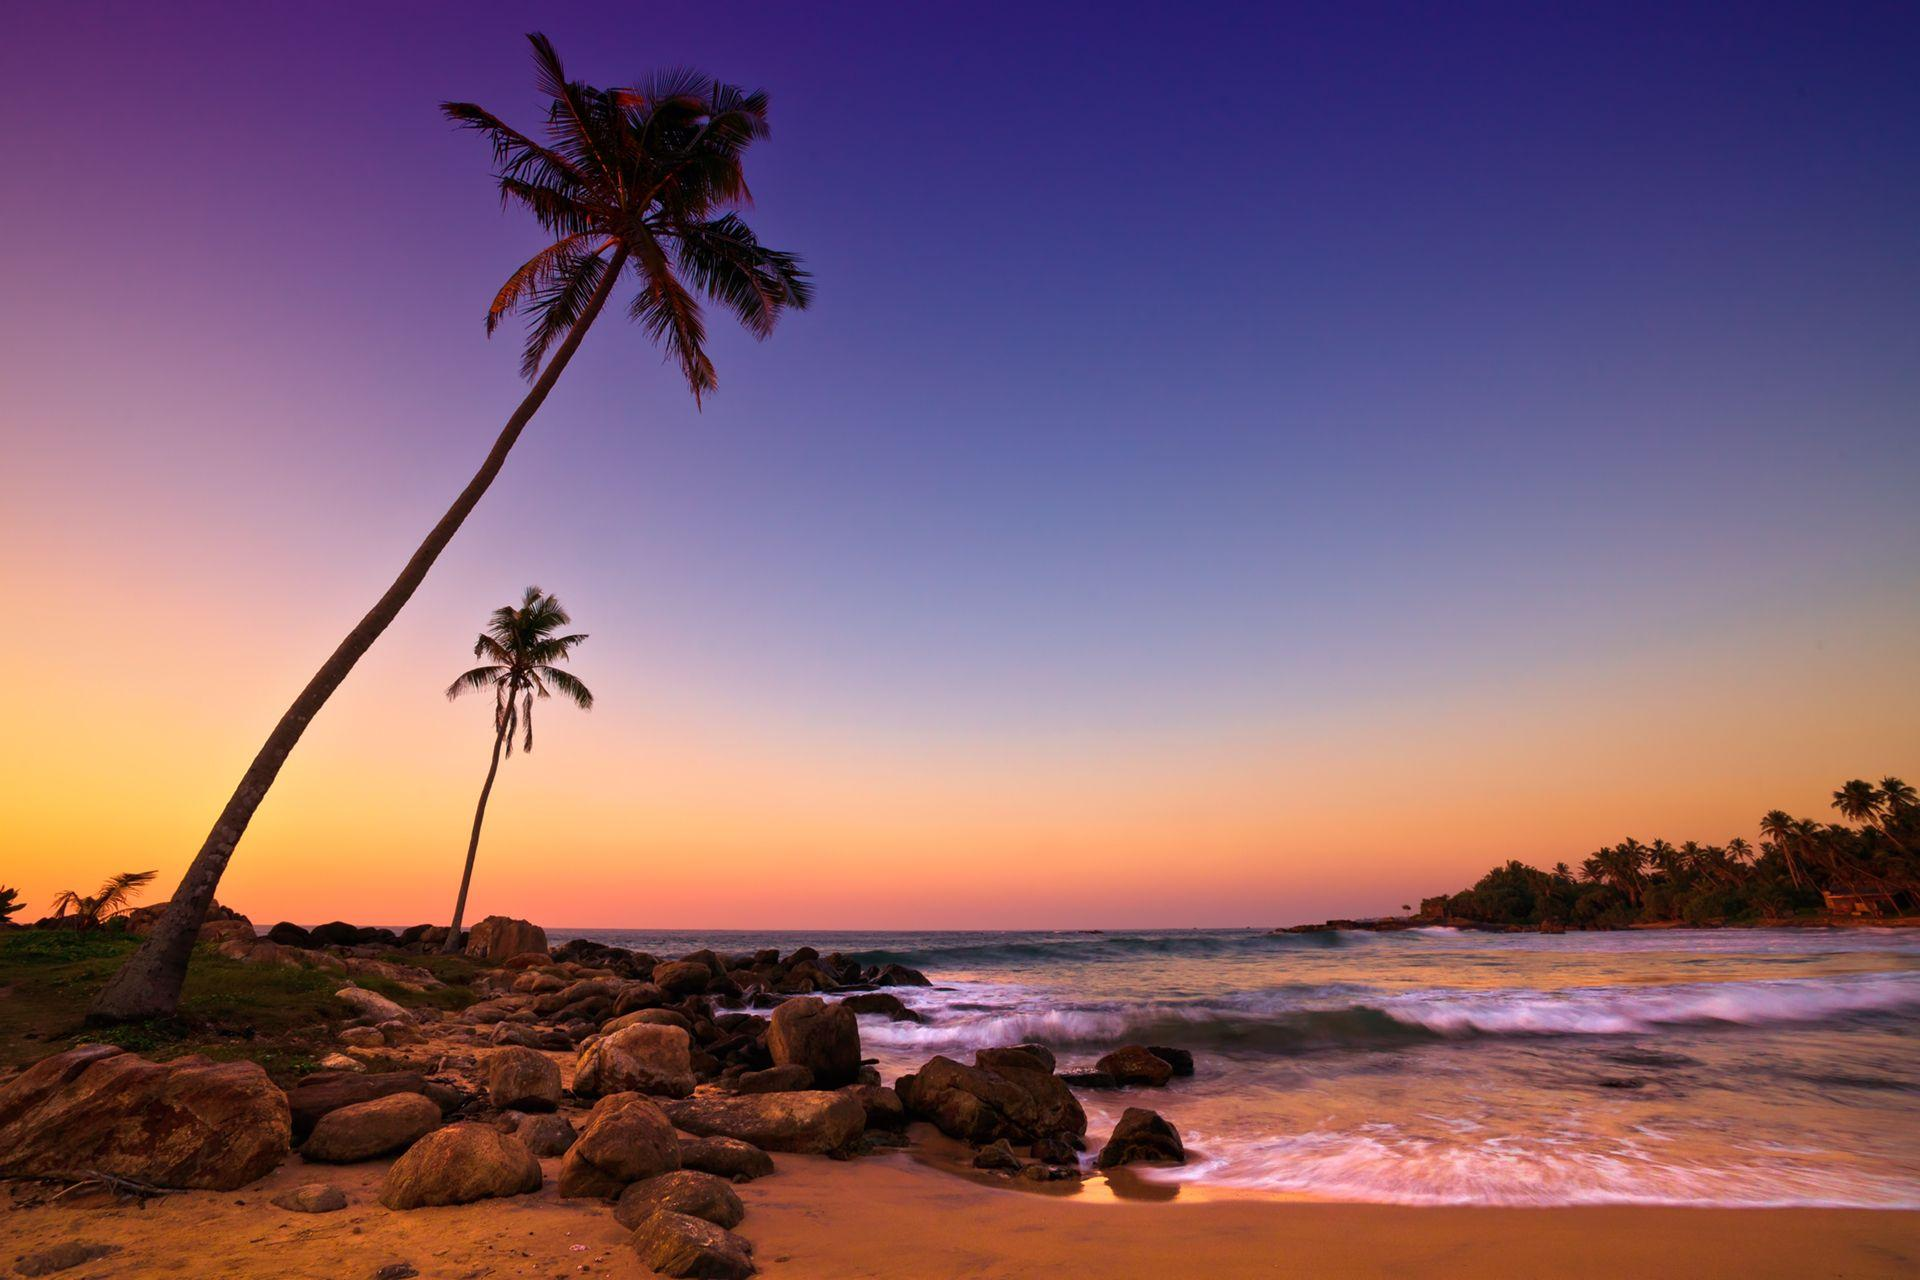
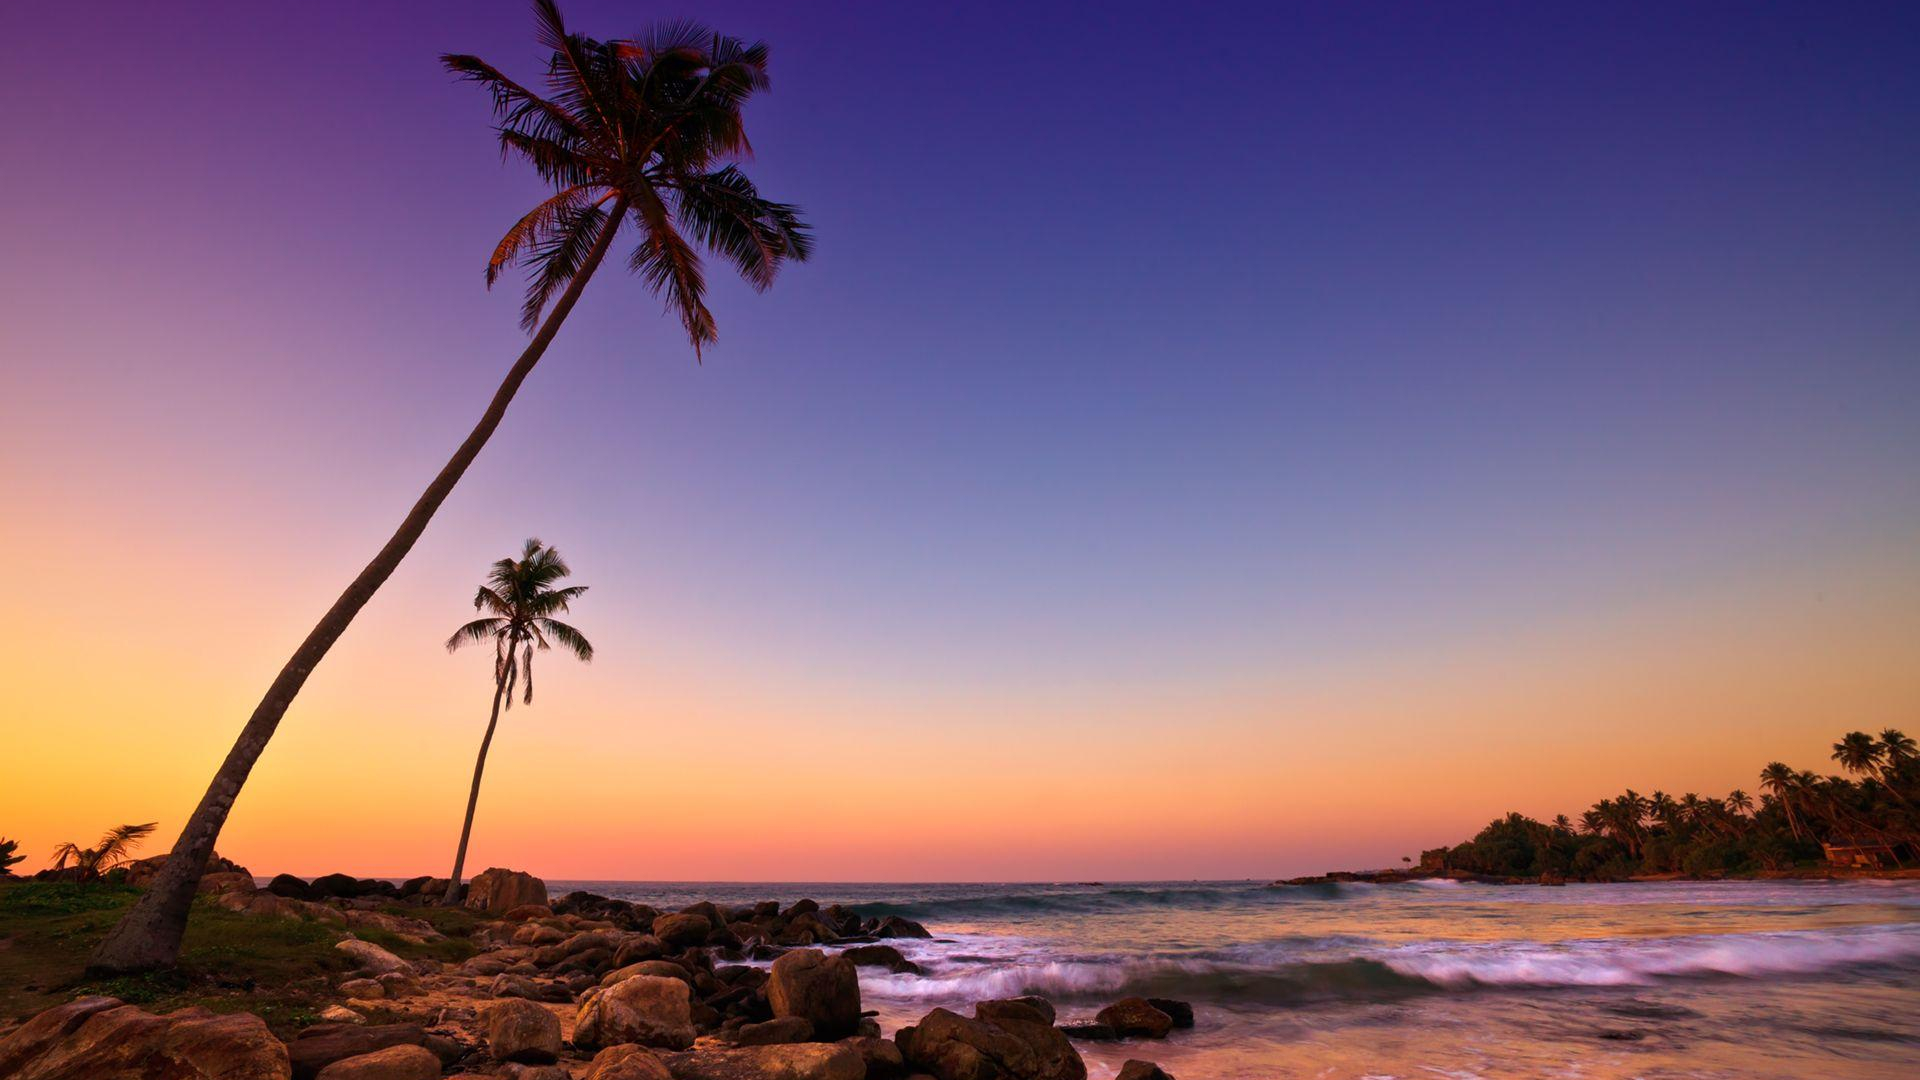
Slide show is changed

diff --git a/css/page1.css b/css/page1.css
@@ -11,7 +11,7 @@ html {
     background-color: white;
   }
 .navBar{
-  z-index: 2;
+  z-index: 3;
   position:fixed;
   display: flex;
   justify-content: space-around;
@@ -112,6 +112,7 @@ html {
 .content-body{
   display:block;
   position: relative;
+  z-index: 2;
 }
   /*SlideShow*/
   .slideShow{ 
@@ -131,6 +132,12 @@ html {
   .slide{
       max-height: 650px;
       width: 100%;
+      filter:brightness(50%);
+  }
+  @media screen and (max-width:1000px){
+    .slide{
+      filter:brightness(100%);
+    }
   }
   
     .prev, .next {
@@ -180,14 +187,16 @@ html {
       position: absolute;
       color:white;
       top:13vw;
-      background-color: rgba(0, 0, 0, 0.404);
+      background-color: rgba(30, 60, 80, 0);
       transform: translateX(25%);
       width: 60%;
-      text-align: justify;
-      font-size: 30px;
+      text-align: center;
+      font-size: 25px;
       padding: 50px;
       padding-bottom: 35px;
       font-family: poppins;
+      line-height: 35px;
+      border-radius: 20px;
     }
     .introduction-heading{
       font-size:40px;
@@ -209,6 +218,9 @@ html {
       }
       .introduction-heading{
         font-size:6vw;
+      }
+      .slide{
+        filter:brightness(100%);
       }
     }
     .clipart{

diff --git a/index.html b/index.html
@@ -35,16 +35,22 @@
        <div class="slideShow">
 
       <div id="slide1" class="slideShow-items fade">
-       <img class="slide" src="res/beach4.jpg" >
+       <img class="slide" src="res/beach3.jpg">
       </div>
       <div id="slide2" class="slideShow-items fade">
-       <img  class="slide" src="res/temple2.jpg" style="width:100%">
+       <img  class="slide" src="res/railRoad.jpg">
       </div>
       <div id="slide3" class="slideShow-items fade">
-        <img class="slide" src="res/mountains.jpg" style="width:100%">
+        <img class="slide" src="res/colombo.jpg">
       </div>
       <div id="slide4" class="slideShow-items fade">
-        <img class="slide" src="res/beach2.jpg" style="width:100%">
+        <img class="slide" src="res/beach3.jpg" >
+      </div>
+      <div id="slide5" class="slideShow-items fade">
+        <img class="slide" src="res/temple2.jpg" >
+      </div>
+      <div id="slide6" class="slideShow-items fade">
+        <img class="slide" src="res/lightHouse.jpg" >
       </div>
     <!-- Next and previous buttons -->
     
@@ -336,7 +342,7 @@ Endless beaches, timeless ruins, welcoming people, oodles of elephants, rolling 
   </div>
   </div>
   <br>
-  
+
     </body>
     <footer>
       <div>

diff --git a/js/myJS.js b/js/myJS.js
@@ -19,10 +19,10 @@ function currentSlide(n) {
 
 function previewSlides(n){
     hideAll();
-    if(n>4){
+    if(n>6){
         n=1;
     }else if(n<1){
-        n=4;
+        n=6;
     }
     index=n;
     document.getElementById("slide"+n).setAttribute("style","display:block;");
@@ -30,7 +30,7 @@ function previewSlides(n){
 
 function hideAll(){
     var i;
-    for(i=1;i<5;i++){
+    for(i=1;i<7;i++){
         document.getElementById("slide"+i).setAttribute("style","display:none;");
     }
 }
